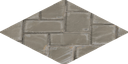
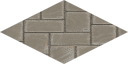
Add approved building finishes with textured caps and repaired paving

diff --git a/docs/sw.js b/docs/sw.js
@@ -1,5 +1,5 @@
-const VERSION="34fbd208bdc56245";
-const FILES=["access-config.mjs", "access.mjs", "ambient-material.mjs", "app-icon.png", "approved-finishes.mjs", "architecture.mjs", "assets/daylight/THREE-LICENSE.txt", "assets/daylight/grass-map.jpg", "assets/daylight/materials.json", "assets/daylight/plaster-map.jpg", "assets/daylight/plaster-normalMap.jpg", "assets/daylight/plaster-roughnessMap.jpg", "assets/daylight/three.core.min.js", "assets/daylight/three.module.min.js", "assets/daylight/timber-map.jpg", "assets/daylight/timber-normalMap.jpg", "assets/daylight/timber-roughnessMap.jpg", "assets/fence-metal-E.png", "assets/fence-metal-N.png", "assets/fence-metal-S.png", "assets/fence-metal-W.png", "assets/fence-models/catalog.mjs", "assets/fence-models/heritage-iron-fence-0.png", "assets/fence-models/heritage-iron-fence-1.png", "assets/fence-models/heritage-iron-fence-2.png", "assets/fence-models/heritage-iron-fence-3.png", "assets/fence-models/heritage-iron-gate-0.png", "assets/fence-models/heritage-iron-gate-1.png", "assets/fence-models/heritage-iron-gate-2.png", "assets/fence-models/heritage-iron-gate-3.png", "assets/fence-models/heritage-iron-post-0.png", "assets/fence-models/heritage-iron-post-1.png", "assets/fence-models/heritage-iron-post-2.png", "assets/fence-models/heritage-iron-post-3.png", "assets/fence-models/heritage-iron-swing0-0.png", "assets/fence-models/heritage-iron-swing0-1.png", "assets/fence-models/heritage-iron-swing0-2.png", "assets/fence-models/heritage-iron-swing0-3.png", "assets/fence-models/heritage-iron-swing1-0.png", "assets/fence-models/heritage-iron-swing1-1.png", "assets/fence-models/heritage-iron-swing1-2.png", "assets/fence-models/heritage-iron-swing1-3.png", "assets/fence-models/heritage-iron-swing2-0.png", "assets/fence-models/heritage-iron-swing2-1.png", "assets/fence-models/heritage-iron-swing2-2.png", "assets/fence-models/heritage-iron-swing2-3.png", "assets/fence-models/heritage-iron-swing3-0.png", "assets/fence-models/heritage-iron-swing3-1.png", "assets/fence-models/heritage-iron-swing3-2.png", "assets/fence-models/heritage-iron-swing3-3.png", "assets/fence-models/heritage-iron-swing4-0.png", "assets/fence-models/heritage-iron-swing4-1.png", "assets/fence-models/heritage-iron-swing4-2.png", "assets/fence-models/heritage-iron-swing4-3.png", "assets/fence-models/heritage-iron-swing5-0.png", "assets/fence-models/heritage-iron-swing5-1.png", "assets/fence-models/heritage-iron-swing5-2.png", "assets/fence-models/heritage-iron-swing5-3.png", "assets/fence-models/heritage-iron-swing6-0.png", "assets/fence-models/heritage-iron-swing6-1.png", "assets/fence-models/heritage-iron-swing6-2.png", "assets/fence-models/heritage-iron-swing6-3.png", "assets/fence-models/heritage-iron-swing7-0.png", "assets/fence-models/heritage-iron-swing7-1.png", "assets/fence-models/heritage-iron-swing7-2.png", "assets/fence-models/heritage-iron-swing7-3.png", "assets/fence-models/heritage-iron-swing8-0.png", "assets/fence-models/heritage-iron-swing8-1.png", "assets/fence-models/heritage-iron-swing8-2.png", "assets/fence-models/heritage-iron-swing8-3.png", "assets/fence-models/natural-picket-fence-0.png", "assets/fence-models/natural-picket-fence-1.png", "assets/fence-models/natural-picket-fence-2.png", "assets/fence-models/natural-picket-fence-3.png", "assets/fence-models/natural-picket-gate-0.png", "assets/fence-models/natural-picket-gate-1.png", "assets/fence-models/natural-picket-gate-2.png", "assets/fence-models/natural-picket-gate-3.png", "assets/fence-models/natural-picket-post-0.png", "assets/fence-models/natural-picket-post-1.png", "assets/fence-models/natural-picket-post-2.png", "assets/fence-models/natural-picket-post-3.png", "assets/fence-models/natural-picket-swing0-0.png", "assets/fence-models/natural-picket-swing0-1.png", "assets/fence-models/natural-picket-swing0-2.png", "assets/fence-models/natural-picket-swing0-3.png", "assets/fence-models/natural-picket-swing1-0.png", "assets/fence-models/natural-picket-swing1-1.png", "assets/fence-models/natural-picket-swing1-2.png", "assets/fence-models/natural-picket-swing1-3.png", "assets/fence-models/natural-picket-swing2-0.png", "assets/fence-models/natural-picket-swing2-1.png", "assets/fence-models/natural-picket-swing2-2.png", "assets/fence-models/natural-picket-swing2-3.png", "assets/fence-models/natural-picket-swing3-0.png", "assets/fence-models/natural-picket-swing3-1.png", "assets/fence-models/natural-picket-swing3-2.png", "assets/fence-models/natural-picket-swing3-3.png", "assets/fence-models/natural-picket-swing4-0.png", "assets/fence-models/natural-picket-swing4-1.png", "assets/fence-models/natural-picket-swing4-2.png", "assets/fence-models/natural-picket-swing4-3.png", "assets/fence-models/natural-picket-swing5-0.png", "assets/fence-models/natural-picket-swing5-1.png", "assets/fence-models/natural-picket-swing5-2.png", "assets/fence-models/natural-picket-swing5-3.png", "assets/fence-models/natural-picket-swing6-0.png", "assets/fence-models/natural-picket-swing6-1.png", "assets/fence-models/natural-picket-swing6-2.png", "assets/fence-models/natural-picket-swing6-3.png", "assets/fence-models/natural-picket-swing7-0.png", "assets/fence-models/natural-picket-swing7-1.png", "assets/fence-models/natural-picket-swing7-2.png", "assets/fence-models/natural-picket-swing7-3.png", "assets/fence-models/natural-picket-swing8-0.png", "assets/fence-models/natural-picket-swing8-1.png", "assets/fence-models/natural-picket-swing8-2.png", "assets/fence-models/natural-picket-swing8-3.png", "assets/fence-models/sources.json", "assets/fence-picket-E.png", "assets/fence-picket-N.png", "assets/fence-picket-S.png", "assets/fence-picket-W.png", "assets/fence-rail-E.png", "assets/fence-rail-N.png", "assets/fence-rail-S.png", "assets/fence-rail-W.png", "assets/floor-asphalt-1x1.png", "assets/floor-asphalt-2x2.png", "assets/floor-blank-1x1.png", "assets/floor-blank-2x2.png", "assets/floor-brick-1x1.png", "assets/floor-brick-2x2.png", "assets/floor-cc0-beige-wall-001-1x1.png", "assets/floor-cc0-beige-wall-001-2x2.png", "assets/floor-cc0-brick-4-1x1.png", "assets/floor-cc0-brick-4-2x2.png", "assets/floor-cc0-brick-wall-001-1x1.png", "assets/floor-cc0-brick-wall-001-2x2.png", "assets/floor-cc0-brown-floor-tiles-1x1.png", "assets/floor-cc0-brown-floor-tiles-2x2.png", "assets/floor-cc0-brown-planks-03-1x1.png", "assets/floor-cc0-brown-planks-03-2x2.png", "assets/floor-cc0-brown-planks-05-1x1.png", "assets/floor-cc0-brown-planks-05-2x2.png", "assets/floor-cc0-castle-brick-02-red-1x1.png", "assets/floor-cc0-castle-brick-02-red-2x2.png", "assets/floor-cc0-castle-wall-slates-1x1.png", "assets/floor-cc0-castle-wall-slates-2x2.png", "assets/floor-cc0-checkered-pavement-tiles-1x1.png", "assets/floor-cc0-checkered-pavement-tiles-2x2.png", "assets/floor-cc0-concrete-1x1.png", "assets/floor-cc0-concrete-2x2.png", "assets/floor-cc0-herringbone-concrete-tile-1x1.png", "assets/floor-cc0-herringbone-concrete-tile-2x2.png", "assets/floor-cc0-interior-tiles-1x1.png", "assets/floor-cc0-interior-tiles-2x2.png", "assets/floor-cc0-laminate-floor-02-1x1.png", "assets/floor-cc0-laminate-floor-02-2x2.png", "assets/floor-cc0-marble-01-1x1.png", "assets/floor-cc0-marble-01-2x2.png", "assets/floor-cc0-medieval-blocks-03-1x1.png", "assets/floor-cc0-medieval-blocks-03-2x2.png", "assets/floor-cc0-medieval-blocks-05-1x1.png", "assets/floor-cc0-medieval-blocks-05-2x2.png", "assets/floor-cc0-metal-plate-1x1.png", "assets/floor-cc0-metal-plate-2x2.png", "assets/floor-cc0-old-planks-02-1x1.png", "assets/floor-cc0-old-planks-02-2x2.png", "assets/floor-cc0-planks-brown-10-1x1.png", "assets/floor-cc0-planks-brown-10-2x2.png", "assets/floor-cc0-plastered-stone-wall-1x1.png", "assets/floor-cc0-plastered-stone-wall-2x2.png", "assets/floor-cc0-red-brick-03-1x1.png", "assets/floor-cc0-red-brick-03-2x2.png", "assets/floor-cc0-red-brick-1x1.png", "assets/floor-cc0-red-brick-2x2.png", "assets/floor-cc0-rock-tile-floor-1x1.png", "assets/floor-cc0-rock-tile-floor-2x2.png", "assets/floor-cc0-rough-block-wall-1x1.png", "assets/floor-cc0-rough-block-wall-2x2.png", "assets/floor-cc0-rustic-stone-wall-02-1x1.png", "assets/floor-cc0-rustic-stone-wall-02-2x2.png", "assets/floor-cc0-sandstone-blocks-05-1x1.png", "assets/floor-cc0-sandstone-blocks-05-2x2.png", "assets/floor-cc0-stone-brick-wall-001-1x1.png", "assets/floor-cc0-stone-brick-wall-001-2x2.png", "assets/floor-cc0-stone-wall-1x1.png", "assets/floor-cc0-stone-wall-2x2.png", "assets/floor-cc0-weathered-planks-1x1.png", "assets/floor-cc0-weathered-planks-2x2.png", "assets/floor-cc0-wood-cabinet-worn-long-1x1.png", "assets/floor-cc0-wood-cabinet-worn-long-2x2.png", "assets/floor-cc0-wood-planks-dirt-1x1.png", "assets/floor-cc0-wood-planks-dirt-2x2.png", "assets/floor-cc0-wood-planks-grey-1x1.png", "assets/floor-cc0-wood-planks-grey-2x2.png", "assets/floor-cc0-woodfloor051-1x1.png", "assets/floor-cc0-woodfloor051-2x2.png", "assets/floor-cc0-worn-tile-floor-1x1.png", "assets/floor-cc0-worn-tile-floor-2x2.png", "assets/floor-checker-1x1.png", "assets/floor-checker-2x2.png", "assets/floor-cobble-1x1.png", "assets/floor-cobble-2x2.png", "assets/floor-concrete-1x1.png", "assets/floor-concrete-2x2.png", "assets/floor-courtyard-1x1.png", "assets/floor-courtyard-2x2.png", "assets/floor-dark-wood-1x1.png", "assets/floor-dark-wood-2x2.png", "assets/floor-dirt-1x1.png", "assets/floor-dirt-2x2.png", "assets/floor-dry-grass-1x1.png", "assets/floor-dry-grass-2x2.png", "assets/floor-gravel-1x1.png", "assets/floor-gravel-2x2.png", "assets/floor-marble-1x1.png", "assets/floor-marble-2x2.png", "assets/floor-mosaic-1x1.png", "assets/floor-mosaic-2x2.png", "assets/floor-moss-1x1.png", "assets/floor-moss-2x2.png", "assets/floor-mud-1x1.png", "assets/floor-mud-2x2.png", "assets/floor-parquet-1x1.png", "assets/floor-parquet-2x2.png", "assets/floor-pavement-1x1.png", "assets/floor-pavement-2x2.png", "assets/floor-rubber-1x1.png", "assets/floor-rubber-2x2.png", "assets/floor-sand-1x1.png", "assets/floor-sand-2x2.png", "assets/floor-short-grass-1x1.png", "assets/floor-short-grass-2x2.png", "assets/floor-slate-1x1.png", "assets/floor-slate-2x2.png", "assets/floor-snow-1x1.png", "assets/floor-snow-2x2.png", "assets/floor-stone-1x1.png", "assets/floor-stone-2x2.png", "assets/floor-terracotta-1x1.png", "assets/floor-terracotta-2x2.png", "assets/floor-terrazzo-1x1.png", "assets/floor-terrazzo-2x2.png", "assets/floor-tile-1x1.png", "assets/floor-tile-2x2.png", "assets/floor-water-1x1.png", "assets/floor-water-2x2.png", "assets/floor-weathered-wood-1x1.png", "assets/floor-weathered-wood-2x2.png", "assets/floor-wood-1x1.png", "assets/floor-wood-2x2.png", "assets/lw-builder-avatar.png", "assets/materials/cc0-beige-wall-001.jpg", "assets/materials/cc0-brick-4.jpg", "assets/materials/cc0-brick-wall-001.jpg", "assets/materials/cc0-brown-floor-tiles.jpg", "assets/materials/cc0-brown-planks-03.jpg", "assets/materials/cc0-brown-planks-05.jpg", "assets/materials/cc0-castle-brick-02-red.jpg", "assets/materials/cc0-castle-wall-slates.jpg", "assets/materials/cc0-checkered-pavement-tiles.jpg", "assets/materials/cc0-concrete.jpg", "assets/materials/cc0-herringbone-concrete-tile.jpg", "assets/materials/cc0-interior-tiles.jpg", "assets/materials/cc0-laminate-floor-02.jpg", "assets/materials/cc0-marble-01.jpg", "assets/materials/cc0-medieval-blocks-03.jpg", "assets/materials/cc0-medieval-blocks-05.jpg", "assets/materials/cc0-metal-plate.jpg", "assets/materials/cc0-old-planks-02.jpg", "assets/materials/cc0-planks-brown-10.jpg", "assets/materials/cc0-plastered-stone-wall.jpg", "assets/materials/cc0-red-brick-03.jpg", "assets/materials/cc0-red-brick.jpg", "assets/materials/cc0-rock-tile-floor.jpg", "assets/materials/cc0-rough-block-wall.jpg", "assets/materials/cc0-rustic-stone-wall-02.jpg", "assets/materials/cc0-sandstone-blocks-05.jpg", "assets/materials/cc0-stone-brick-wall-001.jpg", "assets/materials/cc0-stone-wall.jpg", "assets/materials/cc0-weathered-planks.jpg", "assets/materials/cc0-wood-cabinet-worn-long.jpg", "assets/materials/cc0-wood-planks-dirt.jpg", "assets/materials/cc0-wood-planks-grey.jpg", "assets/materials/cc0-woodfloor051.jpg", "assets/materials/cc0-worn-tile-floor.jpg", "assets/materials/legacy-grass.svg", "assets/materials/legacy-hedge.svg", "assets/materials/lw-arcade.png", "assets/materials/lw-atrium-stripe.png", "assets/materials/lw-brushed-steel.png", "assets/materials/lw-cinema.png", "assets/materials/lw-clay-arches.png", "assets/materials/lw-clover.png", "assets/materials/lw-cosmic.png", "assets/materials/lw-deco.png", "assets/materials/lw-egyptian-lotus.png", "assets/materials/lw-glass.png", "assets/materials/lw-midnight-celestial.png", "assets/materials/lw-modern-linen.png", "assets/materials/lw-moonbase.png", "assets/materials/lw-natural-oak-boards.png", "assets/materials/lw-oak-herringbone.png", "assets/materials/lw-orangery.png", "assets/materials/lw-orbit-lounge.png", "assets/materials/lw-paintable-panel.png", "assets/materials/lw-pastel-terrazzo.png", "assets/materials/lw-pink-orbit.png", "assets/materials/lw-plum-celestial.png", "assets/materials/lw-redlounge.png", "assets/materials/lw-ribbed-steel.png", "assets/materials/lw-rough-dip.png", "assets/materials/lw-sage-weave.png", "assets/materials/lw-softline-plaster.png", "assets/materials/lw-sunflower.png", "assets/materials/lw-sweethearts.png", "assets/materials/lw-velvet.png", "assets/materials/lw-walnut-boards.png", "assets/materials/lw-warehouse-rust.png", "assets/materials/lw-warm-sandstone.png", "assets/materials/lw-western-saloon.png", "assets/materials/sources.json", "assets/stair-basic-1-E.png", "assets/stair-basic-1-N.png", "assets/stair-basic-1-S.png", "assets/stair-basic-1-W.png", "assets/stair-basic-2-E.png", "assets/stair-basic-2-N.png", "assets/stair-basic-2-S.png", "assets/stair-basic-2-W.png", "assets/wall-blank-E-cut.png", "assets/wall-blank-E-full.png", "assets/wall-blank-N-cut.png", "assets/wall-blank-N-full.png", "assets/wall-blank-S-cut.png", "assets/wall-blank-S-full.png", "assets/wall-blank-W-cut.png", "assets/wall-blank-W-full.png", "assets/wall-concrete-E-cut.png", "assets/wall-concrete-E-full.png", "assets/wall-concrete-N-cut.png", "assets/wall-concrete-N-full.png", "assets/wall-concrete-S-cut.png", "assets/wall-concrete-S-full.png", "assets/wall-concrete-W-cut.png", "assets/wall-concrete-W-full.png", "assets/wall-dark-E-cut.png", "assets/wall-dark-E-full.png", "assets/wall-dark-N-cut.png", "assets/wall-dark-N-full.png", "assets/wall-dark-S-cut.png", "assets/wall-dark-S-full.png", "assets/wall-dark-W-cut.png", "assets/wall-dark-W-full.png", "assets/wall-white-E-cut.png", "assets/wall-white-E-full.png", "assets/wall-white-N-cut.png", "assets/wall-white-N-full.png", "assets/wall-white-S-cut.png", "assets/wall-white-S-full.png", "assets/wall-white-W-cut.png", "assets/wall-white-W-full.png", "avatar.mjs", "build.mjs", "daylight-geometry.mjs", "daylight-rooms.mjs", "daylight-view.mjs", "decor.mjs", "exterior-finishes.mjs", "face-order.mjs", "fence-models.mjs", "geometry.mjs", "glass-block-surfaces.mjs", "ground-lot.mjs", "hedge-geometry.mjs", "herringbone-layout.mjs", "icon-192.png", "icon-512.png", "index.html", "kit.mjs", "manifest.webmanifest", "material-surfaces.mjs", "model.mjs", "native-coordinate.mjs", "native-export.mjs", "owner-config.mjs", "owner.mjs", "paintable-material.mjs", "png-compress.mjs", "projects.mjs", "pwa.mjs", "required-version.json", "review.mjs", "room-cutaway.mjs", "room-finishes.mjs", "room-shading.mjs", "rooms.mjs", "studio.css", "studio.mjs", "style-picker.mjs", "version-config.mjs", "version-gate.mjs"];
+const VERSION="b0c6ab1306beeace";
+const FILES=["access-config.mjs", "access.mjs", "ambient-material.mjs", "app-icon.png", "approved-finishes.mjs", "architecture.mjs", "assets/daylight/THREE-LICENSE.txt", "assets/daylight/grass-map.jpg", "assets/daylight/materials.json", "assets/daylight/plaster-map.jpg", "assets/daylight/plaster-normalMap.jpg", "assets/daylight/plaster-roughnessMap.jpg", "assets/daylight/three.core.min.js", "assets/daylight/three.module.min.js", "assets/daylight/timber-map.jpg", "assets/daylight/timber-normalMap.jpg", "assets/daylight/timber-roughnessMap.jpg", "assets/fence-metal-E.png", "assets/fence-metal-N.png", "assets/fence-metal-S.png", "assets/fence-metal-W.png", "assets/fence-models/catalog.mjs", "assets/fence-models/heritage-iron-fence-0.png", "assets/fence-models/heritage-iron-fence-1.png", "assets/fence-models/heritage-iron-fence-2.png", "assets/fence-models/heritage-iron-fence-3.png", "assets/fence-models/heritage-iron-gate-0.png", "assets/fence-models/heritage-iron-gate-1.png", "assets/fence-models/heritage-iron-gate-2.png", "assets/fence-models/heritage-iron-gate-3.png", "assets/fence-models/heritage-iron-post-0.png", "assets/fence-models/heritage-iron-post-1.png", "assets/fence-models/heritage-iron-post-2.png", "assets/fence-models/heritage-iron-post-3.png", "assets/fence-models/heritage-iron-swing0-0.png", "assets/fence-models/heritage-iron-swing0-1.png", "assets/fence-models/heritage-iron-swing0-2.png", "assets/fence-models/heritage-iron-swing0-3.png", "assets/fence-models/heritage-iron-swing1-0.png", "assets/fence-models/heritage-iron-swing1-1.png", "assets/fence-models/heritage-iron-swing1-2.png", "assets/fence-models/heritage-iron-swing1-3.png", "assets/fence-models/heritage-iron-swing2-0.png", "assets/fence-models/heritage-iron-swing2-1.png", "assets/fence-models/heritage-iron-swing2-2.png", "assets/fence-models/heritage-iron-swing2-3.png", "assets/fence-models/heritage-iron-swing3-0.png", "assets/fence-models/heritage-iron-swing3-1.png", "assets/fence-models/heritage-iron-swing3-2.png", "assets/fence-models/heritage-iron-swing3-3.png", "assets/fence-models/heritage-iron-swing4-0.png", "assets/fence-models/heritage-iron-swing4-1.png", "assets/fence-models/heritage-iron-swing4-2.png", "assets/fence-models/heritage-iron-swing4-3.png", "assets/fence-models/heritage-iron-swing5-0.png", "assets/fence-models/heritage-iron-swing5-1.png", "assets/fence-models/heritage-iron-swing5-2.png", "assets/fence-models/heritage-iron-swing5-3.png", "assets/fence-models/heritage-iron-swing6-0.png", "assets/fence-models/heritage-iron-swing6-1.png", "assets/fence-models/heritage-iron-swing6-2.png", "assets/fence-models/heritage-iron-swing6-3.png", "assets/fence-models/heritage-iron-swing7-0.png", "assets/fence-models/heritage-iron-swing7-1.png", "assets/fence-models/heritage-iron-swing7-2.png", "assets/fence-models/heritage-iron-swing7-3.png", "assets/fence-models/heritage-iron-swing8-0.png", "assets/fence-models/heritage-iron-swing8-1.png", "assets/fence-models/heritage-iron-swing8-2.png", "assets/fence-models/heritage-iron-swing8-3.png", "assets/fence-models/natural-picket-fence-0.png", "assets/fence-models/natural-picket-fence-1.png", "assets/fence-models/natural-picket-fence-2.png", "assets/fence-models/natural-picket-fence-3.png", "assets/fence-models/natural-picket-gate-0.png", "assets/fence-models/natural-picket-gate-1.png", "assets/fence-models/natural-picket-gate-2.png", "assets/fence-models/natural-picket-gate-3.png", "assets/fence-models/natural-picket-post-0.png", "assets/fence-models/natural-picket-post-1.png", "assets/fence-models/natural-picket-post-2.png", "assets/fence-models/natural-picket-post-3.png", "assets/fence-models/natural-picket-swing0-0.png", "assets/fence-models/natural-picket-swing0-1.png", "assets/fence-models/natural-picket-swing0-2.png", "assets/fence-models/natural-picket-swing0-3.png", "assets/fence-models/natural-picket-swing1-0.png", "assets/fence-models/natural-picket-swing1-1.png", "assets/fence-models/natural-picket-swing1-2.png", "assets/fence-models/natural-picket-swing1-3.png", "assets/fence-models/natural-picket-swing2-0.png", "assets/fence-models/natural-picket-swing2-1.png", "assets/fence-models/natural-picket-swing2-2.png", "assets/fence-models/natural-picket-swing2-3.png", "assets/fence-models/natural-picket-swing3-0.png", "assets/fence-models/natural-picket-swing3-1.png", "assets/fence-models/natural-picket-swing3-2.png", "assets/fence-models/natural-picket-swing3-3.png", "assets/fence-models/natural-picket-swing4-0.png", "assets/fence-models/natural-picket-swing4-1.png", "assets/fence-models/natural-picket-swing4-2.png", "assets/fence-models/natural-picket-swing4-3.png", "assets/fence-models/natural-picket-swing5-0.png", "assets/fence-models/natural-picket-swing5-1.png", "assets/fence-models/natural-picket-swing5-2.png", "assets/fence-models/natural-picket-swing5-3.png", "assets/fence-models/natural-picket-swing6-0.png", "assets/fence-models/natural-picket-swing6-1.png", "assets/fence-models/natural-picket-swing6-2.png", "assets/fence-models/natural-picket-swing6-3.png", "assets/fence-models/natural-picket-swing7-0.png", "assets/fence-models/natural-picket-swing7-1.png", "assets/fence-models/natural-picket-swing7-2.png", "assets/fence-models/natural-picket-swing7-3.png", "assets/fence-models/natural-picket-swing8-0.png", "assets/fence-models/natural-picket-swing8-1.png", "assets/fence-models/natural-picket-swing8-2.png", "assets/fence-models/natural-picket-swing8-3.png", "assets/fence-models/sources.json", "assets/fence-picket-E.png", "assets/fence-picket-N.png", "assets/fence-picket-S.png", "assets/fence-picket-W.png", "assets/fence-rail-E.png", "assets/fence-rail-N.png", "assets/fence-rail-S.png", "assets/fence-rail-W.png", "assets/floor-asphalt-1x1.png", "assets/floor-asphalt-2x2.png", "assets/floor-blank-1x1.png", "assets/floor-blank-2x2.png", "assets/floor-brick-1x1.png", "assets/floor-brick-2x2.png", "assets/floor-cc0-beige-wall-001-1x1.png", "assets/floor-cc0-beige-wall-001-2x2.png", "assets/floor-cc0-brick-4-1x1.png", "assets/floor-cc0-brick-4-2x2.png", "assets/floor-cc0-brick-wall-001-1x1.png", "assets/floor-cc0-brick-wall-001-2x2.png", "assets/floor-cc0-brown-floor-tiles-1x1.png", "assets/floor-cc0-brown-floor-tiles-2x2.png", "assets/floor-cc0-brown-planks-03-1x1.png", "assets/floor-cc0-brown-planks-03-2x2.png", "assets/floor-cc0-brown-planks-05-1x1.png", "assets/floor-cc0-brown-planks-05-2x2.png", "assets/floor-cc0-castle-brick-02-red-1x1.png", "assets/floor-cc0-castle-brick-02-red-2x2.png", "assets/floor-cc0-castle-wall-slates-1x1.png", "assets/floor-cc0-castle-wall-slates-2x2.png", "assets/floor-cc0-checkered-pavement-tiles-1x1.png", "assets/floor-cc0-checkered-pavement-tiles-2x2.png", "assets/floor-cc0-concrete-1x1.png", "assets/floor-cc0-concrete-2x2.png", "assets/floor-cc0-herringbone-concrete-tile-1x1.png", "assets/floor-cc0-herringbone-concrete-tile-2x2.png", "assets/floor-cc0-interior-tiles-1x1.png", "assets/floor-cc0-interior-tiles-2x2.png", "assets/floor-cc0-laminate-floor-02-1x1.png", "assets/floor-cc0-laminate-floor-02-2x2.png", "assets/floor-cc0-marble-01-1x1.png", "assets/floor-cc0-marble-01-2x2.png", "assets/floor-cc0-medieval-blocks-03-1x1.png", "assets/floor-cc0-medieval-blocks-03-2x2.png", "assets/floor-cc0-medieval-blocks-05-1x1.png", "assets/floor-cc0-medieval-blocks-05-2x2.png", "assets/floor-cc0-metal-plate-1x1.png", "assets/floor-cc0-metal-plate-2x2.png", "assets/floor-cc0-old-planks-02-1x1.png", "assets/floor-cc0-old-planks-02-2x2.png", "assets/floor-cc0-planks-brown-10-1x1.png", "assets/floor-cc0-planks-brown-10-2x2.png", "assets/floor-cc0-plastered-stone-wall-1x1.png", "assets/floor-cc0-plastered-stone-wall-2x2.png", "assets/floor-cc0-red-brick-03-1x1.png", "assets/floor-cc0-red-brick-03-2x2.png", "assets/floor-cc0-red-brick-1x1.png", "assets/floor-cc0-red-brick-2x2.png", "assets/floor-cc0-rock-tile-floor-1x1.png", "assets/floor-cc0-rock-tile-floor-2x2.png", "assets/floor-cc0-rough-block-wall-1x1.png", "assets/floor-cc0-rough-block-wall-2x2.png", "assets/floor-cc0-rustic-stone-wall-02-1x1.png", "assets/floor-cc0-rustic-stone-wall-02-2x2.png", "assets/floor-cc0-sandstone-blocks-05-1x1.png", "assets/floor-cc0-sandstone-blocks-05-2x2.png", "assets/floor-cc0-stone-brick-wall-001-1x1.png", "assets/floor-cc0-stone-brick-wall-001-2x2.png", "assets/floor-cc0-stone-wall-1x1.png", "assets/floor-cc0-stone-wall-2x2.png", "assets/floor-cc0-weathered-planks-1x1.png", "assets/floor-cc0-weathered-planks-2x2.png", "assets/floor-cc0-wood-cabinet-worn-long-1x1.png", "assets/floor-cc0-wood-cabinet-worn-long-2x2.png", "assets/floor-cc0-wood-planks-dirt-1x1.png", "assets/floor-cc0-wood-planks-dirt-2x2.png", "assets/floor-cc0-wood-planks-grey-1x1.png", "assets/floor-cc0-wood-planks-grey-2x2.png", "assets/floor-cc0-woodfloor051-1x1.png", "assets/floor-cc0-woodfloor051-2x2.png", "assets/floor-cc0-worn-tile-floor-1x1.png", "assets/floor-cc0-worn-tile-floor-2x2.png", "assets/floor-checker-1x1.png", "assets/floor-checker-2x2.png", "assets/floor-cobble-1x1.png", "assets/floor-cobble-2x2.png", "assets/floor-concrete-1x1.png", "assets/floor-concrete-2x2.png", "assets/floor-courtyard-1x1.png", "assets/floor-courtyard-2x2.png", "assets/floor-dark-wood-1x1.png", "assets/floor-dark-wood-2x2.png", "assets/floor-dirt-1x1.png", "assets/floor-dirt-2x2.png", "assets/floor-dry-grass-1x1.png", "assets/floor-dry-grass-2x2.png", "assets/floor-gravel-1x1.png", "assets/floor-gravel-2x2.png", "assets/floor-marble-1x1.png", "assets/floor-marble-2x2.png", "assets/floor-mosaic-1x1.png", "assets/floor-mosaic-2x2.png", "assets/floor-moss-1x1.png", "assets/floor-moss-2x2.png", "assets/floor-mud-1x1.png", "assets/floor-mud-2x2.png", "assets/floor-parquet-1x1.png", "assets/floor-parquet-2x2.png", "assets/floor-pavement-1x1.png", "assets/floor-pavement-2x2.png", "assets/floor-rubber-1x1.png", "assets/floor-rubber-2x2.png", "assets/floor-sand-1x1.png", "assets/floor-sand-2x2.png", "assets/floor-short-grass-1x1.png", "assets/floor-short-grass-2x2.png", "assets/floor-slate-1x1.png", "assets/floor-slate-2x2.png", "assets/floor-snow-1x1.png", "assets/floor-snow-2x2.png", "assets/floor-stone-1x1.png", "assets/floor-stone-2x2.png", "assets/floor-terracotta-1x1.png", "assets/floor-terracotta-2x2.png", "assets/floor-terrazzo-1x1.png", "assets/floor-terrazzo-2x2.png", "assets/floor-tile-1x1.png", "assets/floor-tile-2x2.png", "assets/floor-water-1x1.png", "assets/floor-water-2x2.png", "assets/floor-weathered-wood-1x1.png", "assets/floor-weathered-wood-2x2.png", "assets/floor-wood-1x1.png", "assets/floor-wood-2x2.png", "assets/lw-builder-avatar.png", "assets/materials/cc0-beige-wall-001.jpg", "assets/materials/cc0-brick-4.jpg", "assets/materials/cc0-brick-wall-001.jpg", "assets/materials/cc0-brown-floor-tiles.jpg", "assets/materials/cc0-brown-planks-03.jpg", "assets/materials/cc0-brown-planks-05.jpg", "assets/materials/cc0-castle-brick-02-red.jpg", "assets/materials/cc0-castle-wall-slates.jpg", "assets/materials/cc0-checkered-pavement-tiles.jpg", "assets/materials/cc0-concrete.jpg", "assets/materials/cc0-interior-tiles.jpg", "assets/materials/cc0-laminate-floor-02.jpg", "assets/materials/cc0-marble-01.jpg", "assets/materials/cc0-medieval-blocks-03.jpg", "assets/materials/cc0-medieval-blocks-05.jpg", "assets/materials/cc0-metal-plate.jpg", "assets/materials/cc0-old-planks-02.jpg", "assets/materials/cc0-planks-brown-10.jpg", "assets/materials/cc0-plastered-stone-wall.jpg", "assets/materials/cc0-red-brick-03.jpg", "assets/materials/cc0-red-brick.jpg", "assets/materials/cc0-rock-tile-floor.jpg", "assets/materials/cc0-rough-block-wall.jpg", "assets/materials/cc0-rustic-stone-wall-02.jpg", "assets/materials/cc0-sandstone-blocks-05.jpg", "assets/materials/cc0-stone-brick-wall-001.jpg", "assets/materials/cc0-stone-wall.jpg", "assets/materials/cc0-weathered-planks.jpg", "assets/materials/cc0-wood-cabinet-worn-long.jpg", "assets/materials/cc0-wood-planks-dirt.jpg", "assets/materials/cc0-wood-planks-grey.jpg", "assets/materials/cc0-woodfloor051.jpg", "assets/materials/cc0-worn-tile-floor.jpg", "assets/materials/legacy-grass.svg", "assets/materials/legacy-hedge.svg", "assets/materials/lw-arcade.png", "assets/materials/lw-atrium-stripe.png", "assets/materials/lw-brushed-steel.png", "assets/materials/lw-cinema.png", "assets/materials/lw-clay-arches.png", "assets/materials/lw-clover.png", "assets/materials/lw-cosmic.png", "assets/materials/lw-deco.png", "assets/materials/lw-egyptian-lotus.png", "assets/materials/lw-glass.png", "assets/materials/lw-herringbone-pavers.png", "assets/materials/lw-midnight-celestial.png", "assets/materials/lw-modern-linen.png", "assets/materials/lw-moonbase.png", "assets/materials/lw-natural-oak-boards.png", "assets/materials/lw-oak-herringbone.png", "assets/materials/lw-orangery.png", "assets/materials/lw-orbit-lounge.png", "assets/materials/lw-paintable-panel.png", "assets/materials/lw-pastel-terrazzo.png", "assets/materials/lw-pink-orbit.png", "assets/materials/lw-plum-celestial.png", "assets/materials/lw-redlounge.png", "assets/materials/lw-ribbed-steel.png", "assets/materials/lw-rough-dip.png", "assets/materials/lw-sage-weave.png", "assets/materials/lw-softline-plaster.png", "assets/materials/lw-sunflower.png", "assets/materials/lw-sweethearts.png", "assets/materials/lw-velvet.png", "assets/materials/lw-walnut-boards.png", "assets/materials/lw-warehouse-rust.png", "assets/materials/lw-warm-sandstone.png", "assets/materials/lw-western-saloon.png", "assets/materials/sources.json", "assets/stair-basic-1-E.png", "assets/stair-basic-1-N.png", "assets/stair-basic-1-S.png", "assets/stair-basic-1-W.png", "assets/stair-basic-2-E.png", "assets/stair-basic-2-N.png", "assets/stair-basic-2-S.png", "assets/stair-basic-2-W.png", "assets/wall-blank-E-cut.png", "assets/wall-blank-E-full.png", "assets/wall-blank-N-cut.png", "assets/wall-blank-N-full.png", "assets/wall-blank-S-cut.png", "assets/wall-blank-S-full.png", "assets/wall-blank-W-cut.png", "assets/wall-blank-W-full.png", "assets/wall-concrete-E-cut.png", "assets/wall-concrete-E-full.png", "assets/wall-concrete-N-cut.png", "assets/wall-concrete-N-full.png", "assets/wall-concrete-S-cut.png", "assets/wall-concrete-S-full.png", "assets/wall-concrete-W-cut.png", "assets/wall-concrete-W-full.png", "assets/wall-dark-E-cut.png", "assets/wall-dark-E-full.png", "assets/wall-dark-N-cut.png", "assets/wall-dark-N-full.png", "assets/wall-dark-S-cut.png", "assets/wall-dark-S-full.png", "assets/wall-dark-W-cut.png", "assets/wall-dark-W-full.png", "assets/wall-white-E-cut.png", "assets/wall-white-E-full.png", "assets/wall-white-N-cut.png", "assets/wall-white-N-full.png", "assets/wall-white-S-cut.png", "assets/wall-white-S-full.png", "assets/wall-white-W-cut.png", "assets/wall-white-W-full.png", "avatar.mjs", "build.mjs", "building-finishes.mjs", "daylight-geometry.mjs", "daylight-rooms.mjs", "daylight-view.mjs", "decor.mjs", "exterior-finishes.mjs", "face-order.mjs", "fence-models.mjs", "geometry.mjs", "glass-block-surfaces.mjs", "ground-lot.mjs", "hedge-geometry.mjs", "herringbone-layout.mjs", "icon-192.png", "icon-512.png", "index.html", "kit.mjs", "manifest.webmanifest", "material-surfaces.mjs", "model.mjs", "native-coordinate.mjs", "native-export.mjs", "owner-config.mjs", "owner.mjs", "paintable-material.mjs", "png-compress.mjs", "projects.mjs", "pwa.mjs", "required-version.json", "review.mjs", "room-cutaway.mjs", "room-finishes.mjs", "room-shading.mjs", "rooms.mjs", "studio.css", "studio.mjs", "style-picker.mjs", "version-config.mjs", "version-gate.mjs", "wall-finishing.mjs"];
 const PREFIX='lw-studio:'+self.registration.scope+':';
 const CACHE=PREFIX+VERSION;
 const URLS=FILES.map(p=>new URL(p,self.registration.scope).href);
